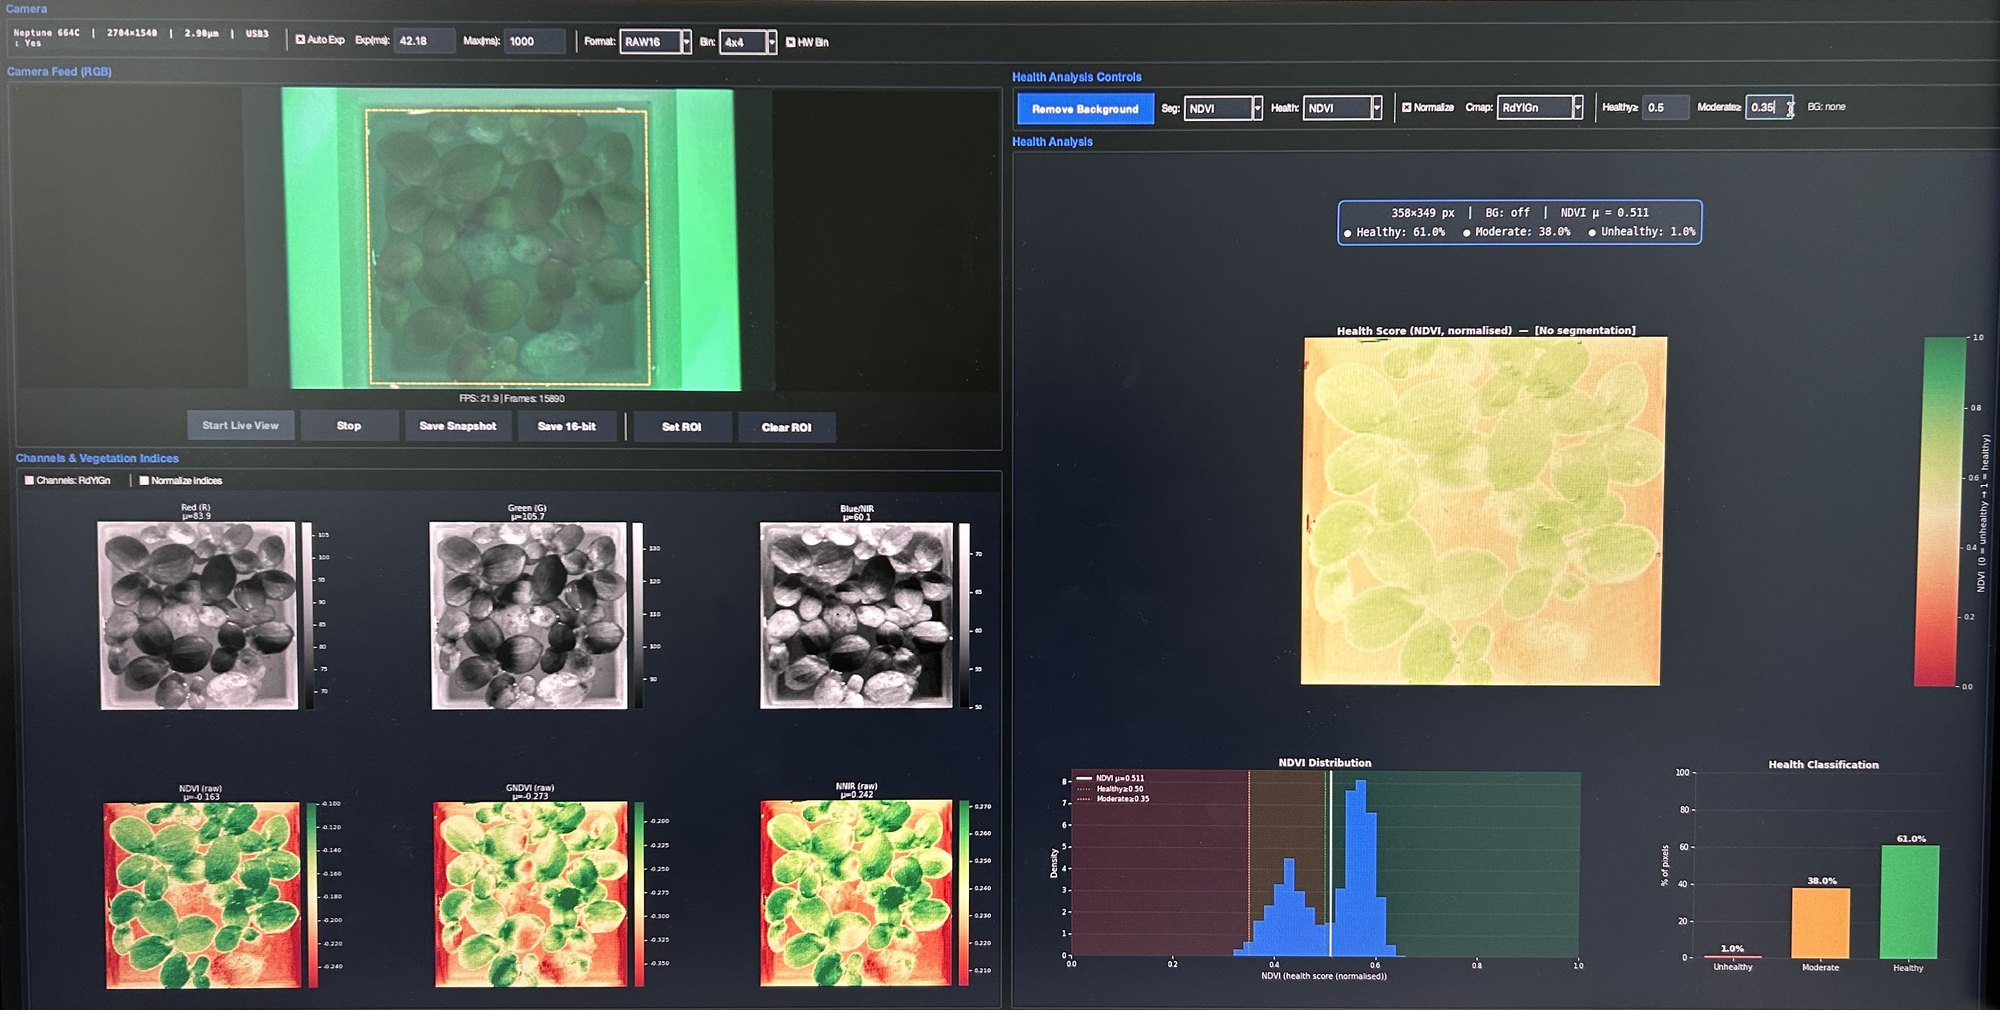
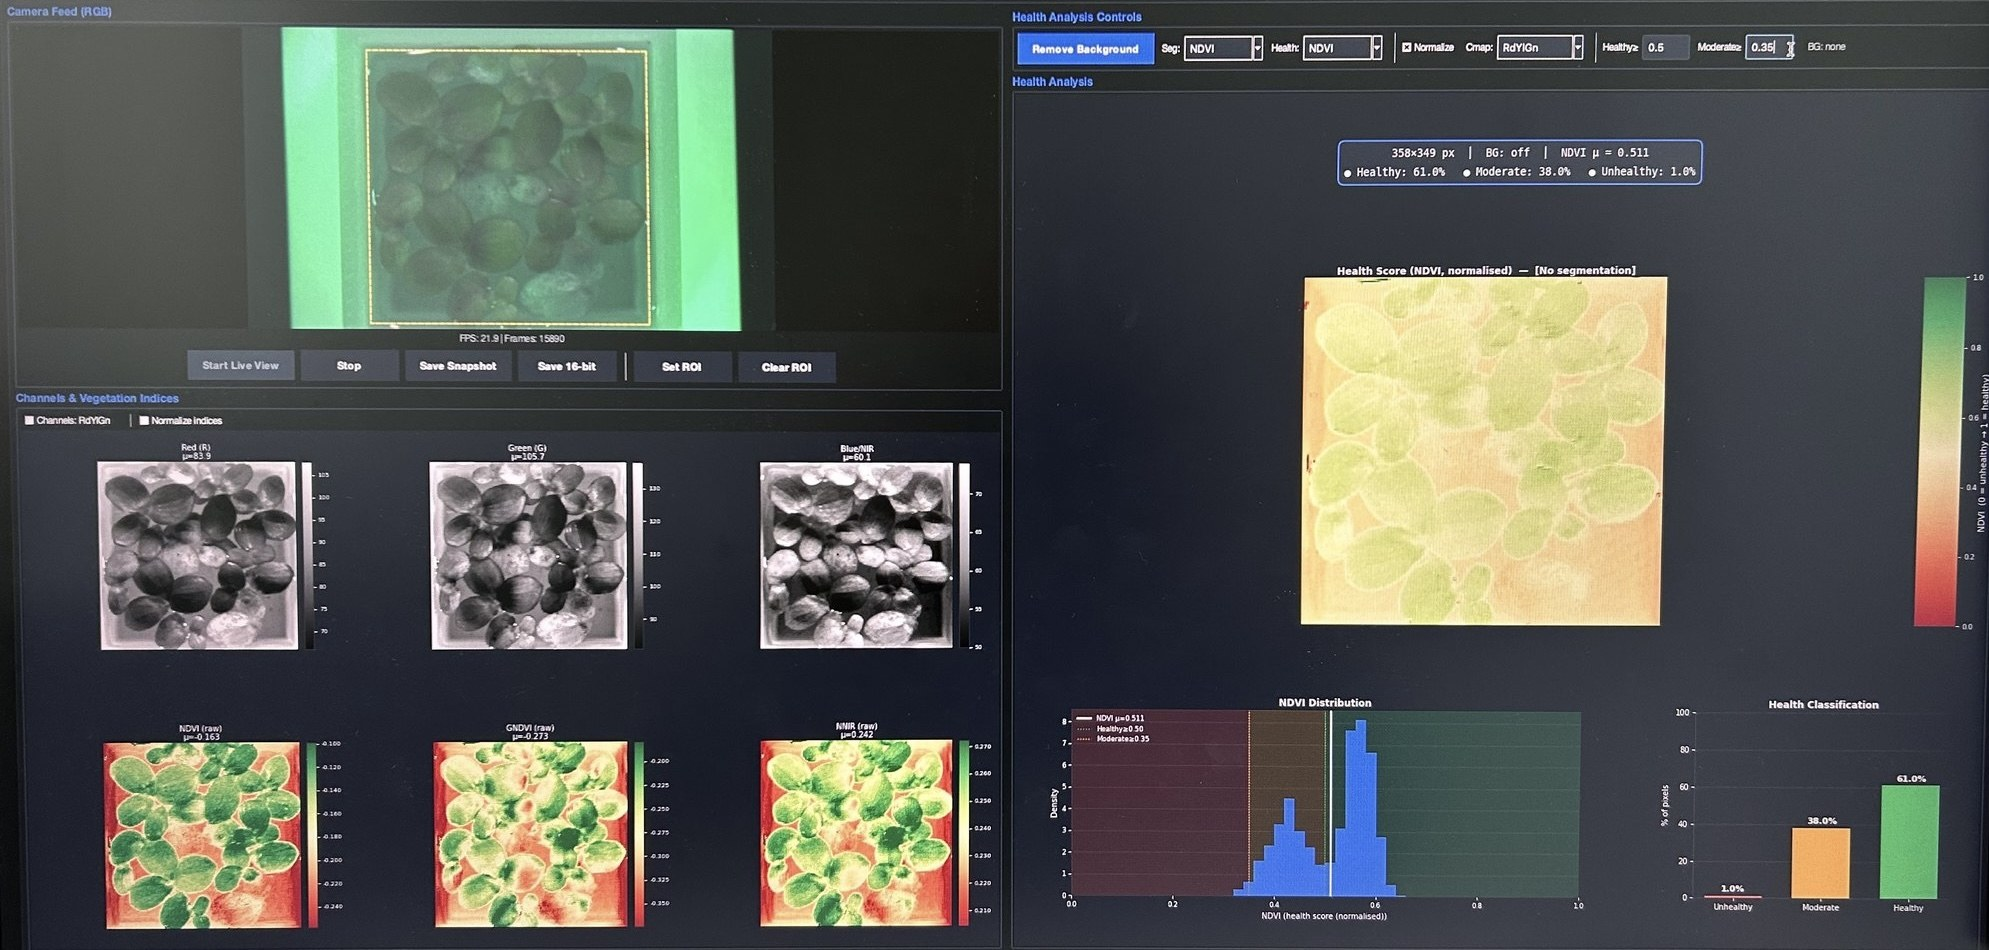
Replace live analysis screenshot with a cleaner capture
Claude-Session: https://claude.ai/code/session_01VUU84amyiqJF3KbMs5nbfS

diff --git a/index.html b/index.html
@@ -563,7 +563,7 @@ html[data-style="graphite"] .nav{background:color-mix(in srgb, var(--bg) 88%, tr
       </div>
     </div>
     <figure class="photo">
-      <img src="assets/gen3-software.jpg" alt="Live analysis software showing a camera feed of duckweed, red, green and NIR channels, three vegetation index maps, a health map, a histogram and class shares" width="2000" height="1010" loading="lazy">
+      <img src="assets/gen3-software.jpg" alt="Live analysis software showing a camera feed of duckweed, red, green and NIR channels, three vegetation index maps, a health map, a histogram and class shares" width="1989" height="950" loading="lazy">
       <figcaption>Our live analysis software: raw channels, three vegetation indices and a health map, updating while the camera runs.</figcaption>
     </figure>
     <div class="readout" aria-label="Readout from one live frame">
